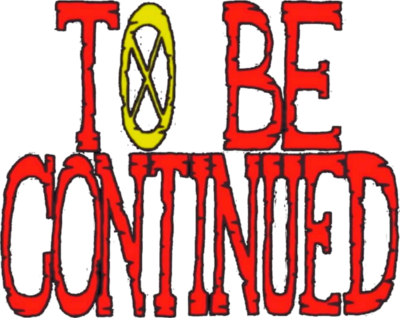
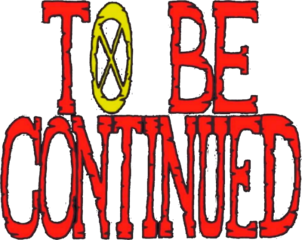
Optimize images size

diff --git a/cat-amania/001/index.html b/cat-amania/001/index.html
@@ -213,32 +213,32 @@
 						</thead>
 						<tbody>
 							<tr>
-								<td><img width="60px" height="60px" data-src="./images/1.png" alt="?"><br/>&nbsp;</td>
-								<td><img width="60px" height="60px" data-src="./images/2.png" alt="?"><br/>&nbsp;</td>
-								<td><img width="60px" height="60px" data-src="./images/3.png" alt="?"><br/>&nbsp;</td>
-								<td><img width="60px" height="60px" data-src="./images/4.png" alt="?"><br/>&nbsp;</td>
-								<td><img width="60px" height="60px" data-src="./images/5.png" alt="?"><br/>&nbsp;</td>
+								<td><img width="60px" height="60px" data-src="./images/01.jpg" alt="?"><br/>&nbsp;</td>
+								<td><img width="60px" height="60px" data-src="./images/02.jpg" alt="?"><br/>&nbsp;</td>
+								<td><img width="60px" height="60px" data-src="./images/03.jpg" alt="?"><br/>&nbsp;</td>
+								<td><img width="60px" height="60px" data-src="./images/04.jpg" alt="?"><br/>&nbsp;</td>
+								<td><img width="60px" height="60px" data-src="./images/05.jpg" alt="?"><br/>&nbsp;</td>
 							</tr>
 							<tr>
-								<td><img width="60px" height="60px" data-src="./images/6.png" alt="?"><br/>&nbsp;</td>
-								<td><img width="60px" height="60px" data-src="./images/7.png" alt="?"><br/>&nbsp;</td>
-								<td><img width="60px" height="60px" data-src="./images/8.png" alt="?"><br/>&nbsp;</td>
-								<td><img width="60px" height="60px" data-src="./images/9.png" alt="?"><br/>&nbsp;</td>
-								<td><img width="60px" height="60px" data-src="./images/10.png" alt="?"><br/>&nbsp;</td>
+								<td><img width="60px" height="60px" data-src="./images/06.jpg" alt="?"><br/>&nbsp;</td>
+								<td><img width="60px" height="60px" data-src="./images/07.jpg" alt="?"><br/>&nbsp;</td>
+								<td><img width="60px" height="60px" data-src="./images/08.jpg" alt="?"><br/>&nbsp;</td>
+								<td><img width="60px" height="60px" data-src="./images/09.jpg" alt="?"><br/>&nbsp;</td>
+								<td><img width="60px" height="60px" data-src="./images/10.jpg" alt="?"><br/>&nbsp;</td>
 							</tr>
 							<tr>
-								<td><img width="60px" height="60px" data-src="./images/11.png" alt="?"><br/>&nbsp;</td>
-								<td><img width="60px" height="60px" data-src="./images/12.png" alt="?"><br/>&nbsp;</td>
-								<td><img width="60px" height="60px" data-src="./images/13.png" alt="?"><br/>&nbsp;</td>
-								<td><img width="60px" height="60px" data-src="./images/14.png" alt="?"><br/>&nbsp;</td>
-								<td><img width="60px" height="60px" data-src="./images/15.png" alt="?"><br/>&nbsp;</td>
+								<td><img width="60px" height="60px" data-src="./images/11.jpg" alt="?"><br/>&nbsp;</td>
+								<td><img width="60px" height="60px" data-src="./images/12.jpg" alt="?"><br/>&nbsp;</td>
+								<td><img width="60px" height="60px" data-src="./images/13.jpg" alt="?"><br/>&nbsp;</td>
+								<td><img width="60px" height="60px" data-src="./images/14.jpg" alt="?"><br/>&nbsp;</td>
+								<td><img width="60px" height="60px" data-src="./images/15.jpg" alt="?"><br/>&nbsp;</td>
 							</tr>
 							<tr>
-								<td><img width="60px" height="60px" data-src="./images/21.png" alt="?"><br/>&nbsp;</td>
-								<td><img width="60px" height="60px" data-src="./images/17.png" alt="?"><br/>&nbsp;</td>
-								<td><img width="60px" height="60px" data-src="./images/18.png" alt="?"><br/>&nbsp;</td>
-								<td><img width="60px" height="60px" data-src="./images/19.png" alt="?"><br/>&nbsp;</td>
-								<td><img width="60px" height="60px" data-src="./images/20.png" alt="?"><br/>&nbsp;</td>
+								<td><img width="60px" height="60px" data-src="./images/21.jpg" alt="?"><br/>&nbsp;</td>
+								<td><img width="60px" height="60px" data-src="./images/17.jpg" alt="?"><br/>&nbsp;</td>
+								<td><img width="60px" height="60px" data-src="./images/18.jpg" alt="?"><br/>&nbsp;</td>
+								<td><img width="60px" height="60px" data-src="./images/19.jpg" alt="?"><br/>&nbsp;</td>
+								<td><img width="60px" height="60px" data-src="./images/20.jpg" alt="?"><br/>&nbsp;</td>
 							</tr>
 						</tbody>
 					</table>
@@ -252,32 +252,32 @@
 							</thead>
 							<tbody>
 								<tr>
-									<td><img width="60px" height="60px" data-src="./images/1.png" alt="?"><br/><small>Ubuntu</small></td>
-									<td><img width="60px" height="60px" data-src="./images/2.png" alt="?"><br/><small>Docker</small></td>
-									<td><img width="60px" height="60px" data-src="./images/3.png" alt="?"><br/><small>Elasticsearch</small></td>
-									<td><img width="60px" height="60px" data-src="./images/4.png" alt="?"><br/><small>Java</small></td>
-									<td><img width="60px" height="60px" data-src="./images/5.png" alt="?"><br/><small>Logstash</small></td>
+									<td><img width="60px" height="60px" data-src="./images/01.jpg" alt="?"><br/><small>Ubuntu</small></td>
+									<td><img width="60px" height="60px" data-src="./images/02.jpg" alt="?"><br/><small>Docker</small></td>
+									<td><img width="60px" height="60px" data-src="./images/03.jpg" alt="?"><br/><small>Elasticsearch</small></td>
+									<td><img width="60px" height="60px" data-src="./images/04.jpg" alt="?"><br/><small>Java</small></td>
+									<td><img width="60px" height="60px" data-src="./images/05.jpg" alt="?"><br/><small>Logstash</small></td>
 								</tr>
 								<tr>
-									<td><img width="60px" height="60px" data-src="./images/6.png" alt="?"><br/><small>AngularJS</small></td>
-									<td><img width="60px" height="60px" data-src="./images/7.png" alt="?"><br/><small>MongoDB</small></td>
-									<td><img width="60px" height="60px" data-src="./images/8.png" alt="?"><br/><small>Git</small></td>
-									<td><img width="60px" height="60px" data-src="./images/9.png" alt="?"><br/><small>Spring</small></td>
-									<td><img width="60px" height="60px" data-src="./images/10.png" alt="?"><br/><small>JHipster</small></td>
+									<td><img width="60px" height="60px" data-src="./images/06.jpg" alt="?"><br/><small>AngularJS</small></td>
+									<td><img width="60px" height="60px" data-src="./images/07.jpg" alt="?"><br/><small>MongoDB</small></td>
+									<td><img width="60px" height="60px" data-src="./images/08.jpg" alt="?"><br/><small>Git</small></td>
+									<td><img width="60px" height="60px" data-src="./images/09.jpg" alt="?"><br/><small>Spring</small></td>
+									<td><img width="60px" height="60px" data-src="./images/10.jpg" alt="?"><br/><small>JHipster</small></td>
 								</tr>
 								<tr>
-									<td><img width="60px" height="60px" data-src="./images/11.png" alt="?"><br/><small>Bower</small></td>
-									<td><img width="60px" height="60px" data-src="./images/12.png" alt="?"><br/><small>Jenkins</small></td>
-									<td><img width="60px" height="60px" data-src="./images/13.png" alt="?"><br/><small>Scala</small></td>
-									<td><img width="60px" height="60px" data-src="./images/14.png" alt="?"><br/><small>IntelliJ</small></td>
-									<td><img width="60px" height="60px" data-src="./images/15.png" alt="?"><br/><small>Redis</small></td>
+									<td><img width="60px" height="60px" data-src="./images/11.jpg" alt="?"><br/><small>Bower</small></td>
+									<td><img width="60px" height="60px" data-src="./images/12.jpg" alt="?"><br/><small>Jenkins</small></td>
+									<td><img width="60px" height="60px" data-src="./images/13.jpg" alt="?"><br/><small>Scala</small></td>
+									<td><img width="60px" height="60px" data-src="./images/14.jpg" alt="?"><br/><small>IntelliJ</small></td>
+									<td><img width="60px" height="60px" data-src="./images/15.jpg" alt="?"><br/><small>Redis</small></td>
 								</tr>
 								<tr>
-									<td><img width="60px" height="60px" data-src="./images/21.png" alt="?"><br/><small>Kibana</small></td>
-									<td><img width="60px" height="60px" data-src="./images/17.png" alt="?"><br/><small>Grunt</small></td>
-									<td><img width="60px" height="60px" data-src="./images/18.png" alt="?"><br/><small>ReactJS</small></td>
-									<td><img width="60px" height="60px" data-src="./images/19.png" alt="?"><br/><small>Cassandra</small></td>
-									<td><img width="60px" height="60px" data-src="./images/20.png" alt="?"><br/><small>Yeoman</small></td>
+									<td><img width="60px" height="60px" data-src="./images/21.jpg" alt="?"><br/><small>Kibana</small></td>
+									<td><img width="60px" height="60px" data-src="./images/17.jpg" alt="?"><br/><small>Grunt</small></td>
+									<td><img width="60px" height="60px" data-src="./images/18.jpg" alt="?"><br/><small>ReactJS</small></td>
+									<td><img width="60px" height="60px" data-src="./images/19.jpg" alt="?"><br/><small>Cassandra</small></td>
+									<td><img width="60px" height="60px" data-src="./images/20.jpg" alt="?"><br/><small>Yeoman</small></td>
 								</tr>
 							</tbody>
 						</table>
